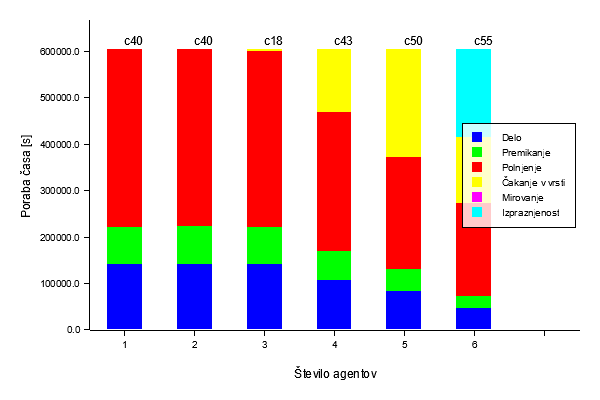
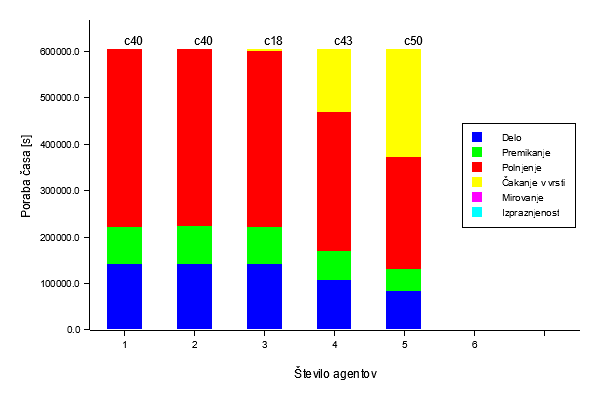
Handle no best combination

Changed region(s): [[0.75, 0.09, 0.84, 0.84]]

diff --git a/crates/farmbotsim-analysis/src/bin/analyze.rs b/crates/farmbotsim-analysis/src/bin/analyze.rs
@@ -424,7 +424,7 @@ fn write_combinations_table_latex(
 /// shows best combination for each agent count
 fn write_best_combinations_table_latex(
     base_file_path: &str,
-    best_combinations: &HashMap<u32, Combination>,
+    best_combinations: &HashMap<u32, Option<Combination>>,
 ) -> Result<(), Box<dyn std::error::Error>> {
     let file_path = &format!("{base_file_path}.txt").to_lowercase();
     let mut file = File::create(file_path)?;
@@ -442,21 +442,34 @@ fn write_best_combinations_table_latex(
         "Število agentov & Oznaka & Strategija polnjenja & Strategija izbire postaje \\\\"
     )?;
     writeln!(file, "\\hline")?;
-    // Suppose `best_combinations: HashMap<u32, Combination>`
+
     let mut keys: Vec<_> = best_combinations.keys().cloned().collect();
     keys.sort(); // ascending order
 
     for n_agents in keys {
-        if let Some(c) = best_combinations.get(&n_agents) {
-            let label = &c.label;
-            let charging_str = format!("{}", c.charging_strategy);
-            let station_str = format!("{}", c.station_strategy);
+        match best_combinations.get(&n_agents) {
+            Some(Some(c)) => {
+                // Normal case: we have a valid combination
+                let label = &c.label;
+                let charging_str = format!("{}", c.charging_strategy);
+                let station_str = format!("{}", c.station_strategy);
 
-            writeln!(
-                file,
-                "{n_agents} & {label} & {charging_str} & {station_str} \\\\"
-            )?;
-            writeln!(file, "\\hline")?;
+                writeln!(
+                    file,
+                    "{n_agents} & {label} & {charging_str} & {station_str} \\\\"
+                )?;
+                writeln!(file, "\\hline")?;
+            }
+            Some(None) => {
+                // Case: best combination was None (e.g., score == DISCHARGE_SCORE)
+                writeln!(file, "{n_agents} & / & / & / \\\\")?;
+                writeln!(file, "\\hline")?;
+            }
+            None => {
+                // Shouldn’t happen, but handle gracefully
+                writeln!(file, "{n_agents} & // missing entry \\\\")?;
+                writeln!(file, "\\hline")?;
+            }
         }
     }
 
@@ -466,8 +479,8 @@ fn write_best_combinations_table_latex(
 }
 
 /// Get best combination for each agent count
-fn select_best_combination(results: &[AnalyzeEnvResult]) -> HashMap<u32, Combination> {
-    let mut best_per_agents: HashMap<u32, Combination> = HashMap::new();
+fn select_best_combination(results: &[AnalyzeEnvResult]) -> HashMap<u32, Option<Combination>> {
+    let mut best_per_agents: HashMap<u32, Option<Combination>> = HashMap::new();
 
     // Group results by n_agents
     let mut results_by_agents: HashMap<u32, Vec<&AnalyzeEnvResult>> = HashMap::new();
@@ -481,7 +494,11 @@ fn select_best_combination(results: &[AnalyzeEnvResult]) -> HashMap<u32, Combina
             .iter()
             .max_by(|a, b| score(a).partial_cmp(&score(b)).unwrap())
         {
-            best_per_agents.insert(n_agents, best.combination.clone());
+            if score(best) == DISCHARGED_SCORE {
+                best_per_agents.insert(n_agents, None);
+            } else {
+                best_per_agents.insert(n_agents, Some(best.combination.clone()));
+            }
         }
     }
 
@@ -700,7 +717,7 @@ enum TimePlotMode {
 /// each bar is segmented on time chunks (work, queue, travel, charge, wait, discharge)
 fn plot_best_combinations(
     base_png_path: &str,
-    best_combinations: HashMap<u32, Combination>,
+    best_combinations: HashMap<u32, Option<Combination>>,
     results: &[AnalyzeEnvResult],
     mode: TimePlotMode,
 ) -> Result<(), Box<dyn std::error::Error>> {
@@ -716,7 +733,7 @@ fn plot_best_combinations(
     let mut max_total_time = 0.0;
     if let TimePlotMode::Absolute = mode {
         for n_agents in &agent_counts {
-            if let Some(best_combo) = best_combinations.get(n_agents) {
+            if let Some(Some(best_combo)) = best_combinations.get(n_agents) {
                 if let Some(res) = results
                     .iter()
                     .find(|r| r.n_agents == *n_agents && r.combination.label == best_combo.label)
@@ -727,6 +744,7 @@ fn plot_best_combinations(
                         + res.agent_averaged_stats.queue_time.to_base_unit()
                         + res.agent_averaged_stats.discharged_time.to_base_unit()
                         + res.agent_averaged_stats.idle_time.to_base_unit();
+
                     if total > max_total_time {
                         max_total_time = total;
                     }
@@ -773,7 +791,8 @@ fn plot_best_combinations(
     // Draw stacked bars
     for (idx, n_agents) in agent_counts.iter().enumerate() {
         let idx = idx as f32;
-        if let Some(best_combo) = best_combinations.get(n_agents) {
+
+        if let Some(Some(best_combo)) = best_combinations.get(n_agents) {
             if let Some(res) = results
                 .iter()
                 .find(|r| r.n_agents == *n_agents && r.combination.label == best_combo.label)
@@ -866,6 +885,8 @@ fn plot_best_combinations(
                     ("sans-serif", 15).into_font().color(&BLACK),
                 )))?;
             }
+        } else {
+            // No best combination
         }
     }
 
